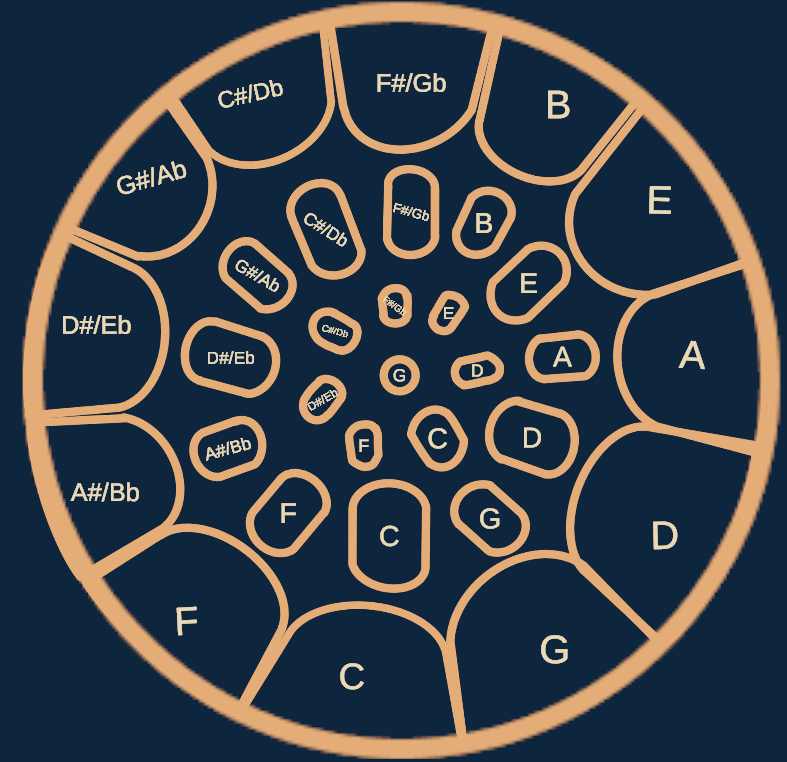
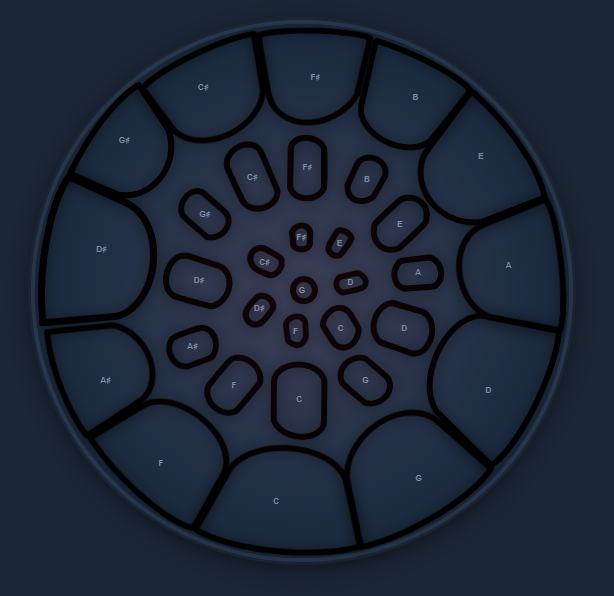
Add Pan Jam, replace a few dates

diff --git a/index.html b/index.html
@@ -50,15 +50,15 @@
             <h3><b>COMPUTER SCIENCE</b></h3>
             <div class="w3-row-padding">
 				<div class="w3-third w3-container w3-margin-bottom">
-                  <a href="https://play.unity.com/en/games/44275c92-d32e-4d23-a88a-a23d74249682/build">
+                  <a href="https://pan-jam.pages.dev/">
                      <img src="resources/spider_lead.png" style="width:100%">
                   </a>
                   <div class="w3-container">
-                     <p><b>We Have Pans At Home | 2025</b></p>
+                     <p><b>Pan Jam | 2026</b></p>
                      <p>
-					 Steel pans are hard to come by and this program allows users to practice at home. This application features real, not synthesized, steel drum sounds and hand-drawn assets with labeled notes for ease of practice. Spiderweb lead and Double Second available, lots more to come!
+					 Steel pans are hard to come by and this program allows users to practice at home. This application features real, not synthesized, steel drum sounds and hand-drawn assets with labeled notes for ease of practice.
                         <br>
-                        <i>Unity | C# | Permanent host TBD</i>
+                        <i>HTML/JS | Hosted via Cloudflare</i>
                      </p>
                   </div>
                </div>
@@ -67,7 +67,7 @@
                      <img src="resources/leetcode.png" style="width:100%">
                   </a>
                   <div class="w3-container">
-                     <p><b>Leetcode Solutions | 2023 - Present</b></p>
+                     <p><b>Leetcode Solutions | 2023 - 2025</b></p>
                      <p>A collection of accepted leetcode solutions. Each file has a solution to one problem in one language and includes a description of the solution.
                         <br>
                         <i>C++</i>
@@ -146,7 +146,7 @@
                   </a>
                   <div class="w3-container">
                      <p><b>Various Musical Arrangements</b></p>
-                     <p><i>Musescore | 2012 - 2025</i></p>
+                     <p><i>Musescore | 2012 - Present</i></p>
                   </div>
                </div>
                <div class="w3-third w3-container w3-margin-bottom">
@@ -218,9 +218,8 @@
             </div>
          </footer>
          <div class="w3-center w3-padding-24 theme-darkest">
-            Maple 2025 - Powered by <a href="https://www.w3schools.com/w3css/default.asp" target="_blank">w3.css</a>
+            Maple 2026 - Powered by <a href="https://www.w3schools.com/w3css/default.asp" target="_blank">w3.css</a>
             <br>
-            <a href="https://cat-bounce.com/">Click Here to Feel Uplifted</a>
          </div>
          <!-- End page content -->
       </div>
